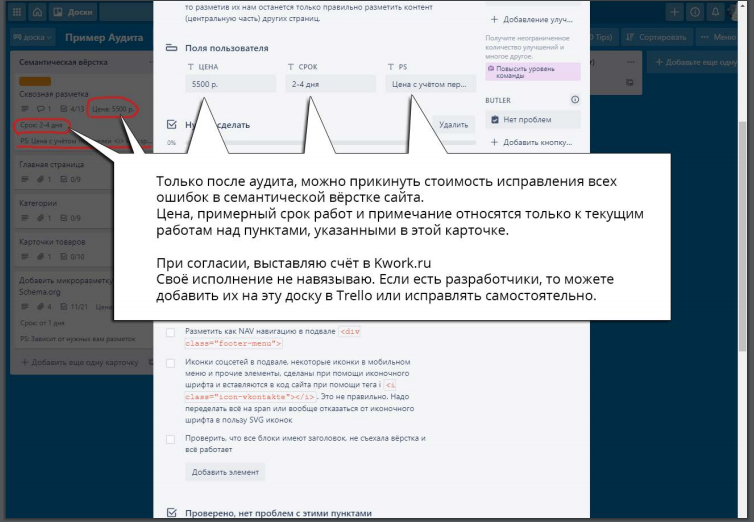
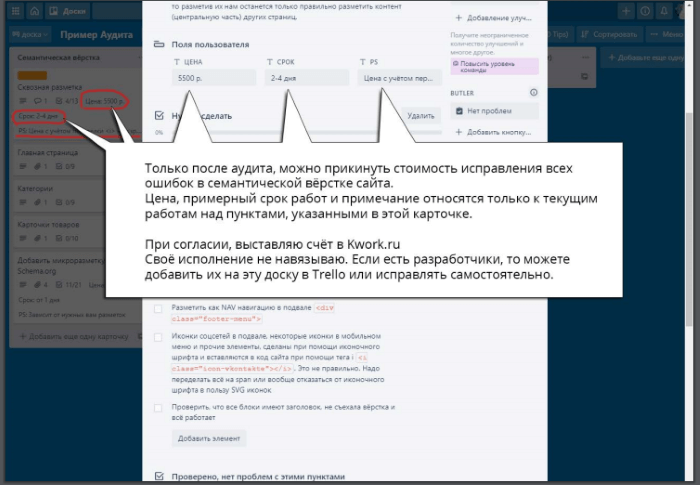
Изменила размеры, сжала картинку, исправила код

diff --git a/new-audit--layout.html b/new-audit--layout.html
@@ -1869,7 +1869,7 @@
                             </p>
                         </div>
                         <div style="min-width: 45%;">
-                            <img src="image/schema.jpg" style="max-width: 100%;height: auto;" width="662" height="500"
+                            <img src="image/schema.jpg" style="max-width: 100%;height: auto;" width="570" height="344"
                                 class="wslazy" data-srcset="image/schema.jpg 100w"
                                 srcset="https://wseo.kz/images/empty-300x200.svg 100w" sizes="100vw" decoding="async"
                                 loading="lazy" alt="Схема структуры страницы">
@@ -2067,7 +2067,7 @@
                         </div>
                         <div style="min-width: 45%;">
                             <img src="image/kak-vypolnyaetsya-audit.png" style="max-width: 100%;height: auto;"
-                                width="662" height="500" class="wslazy"
+                                width="700" height="242" class="wslazy"
                                 data-srcset="image/kak-vypolnyaetsya-audit.png 100w"
                                 srcset="https://wseo.kz/images/empty-300x200.svg 100w" sizes="100vw" decoding="async"
                                 loading="lazy" alt="Веб-специалист выполняющий аудит">
@@ -2096,8 +2096,8 @@
                             одежды – по 4 товара в ряд.
                         </p>
                         <div class="ta-center" style="min-width: 45%;">
-                            <img src="image/shablonnaya-stranica.jpg" style="max-width: 100%;height: auto;" width="662"
-                                height="500" class="wslazy" data-srcset="image/shablonnaya-stranica.jpg 100w"
+                            <img src="image/shablonnaya-stranica.jpg" style="max-width: 100%;height: auto;" width="700"
+                                height="543" class="wslazy" data-srcset="image/shablonnaya-stranica.jpg 100w"
                                 srcset="https://wseo.kz/images/empty-300x200.svg 100w" sizes="100vw" decoding="async"
                                 loading="lazy" alt="Шаблонная страница">
                         </div>
@@ -2119,7 +2119,7 @@
                         </div>
                         <div style="min-width: 45%;">
                             <img src="image/shablon-zimnej-odezhdy.png" style="max-width: 100%;height: auto;"
-                                width="662" height="500" class="wslazy"
+                                width="700" height="329" class="wslazy"
                                 data-srcset="image/shablon-zimnej-odezhdy.png 100w"
                                 srcset="https://wseo.kz/images/empty-300x200.svg 100w" sizes="100vw" decoding="async"
                                 loading="lazy" alt="Шаблонная страница зимней одежды">
@@ -2183,13 +2183,13 @@
 
                     <div class="flex jc-space-between nowrap-desctop pt25 pb30">
 
-                        <div style="min-width: 45%; padding-right: 5vw">
-                            <img src="image/prilozheniya-trello.png" style="max-width: 100%;height: auto;" width="662"
-                                height="500" class="wslazy" data-srcset="image/prilozheniya-trello.png 100w"
+                        <div class="ta-center" style="min-width: 45%;">
+                            <img src="image/prilozheniya-trello.png" style="max-width: 100%;height: auto; " width="700"
+                                height="419" class="wslazy" data-srcset="image/prilozheniya-trello.png 100w"
                                 srcset="https://wseo.kz/images/empty-300x200.svg 100w" sizes="100vw" decoding="async"
                                 loading="lazy" alt="Главная страница Trello">
                         </div>
-                        <div style="font-size: 1rem;">
+                        <div style="font-size: 1rem; padding: 2vw;">
                             <p>
                                 Я формирую результаты аудита семантической верстки html5 в отчет в приложении Trello.
                                 Его очень легко и удобно использовать даже новичкам. Документ состоит из карточек с
@@ -2208,14 +2208,14 @@
                     <div class="flex jc-space-between nowrap-desctop pt25 pb30 ta-center">
 
                         <div style="min-width: 45%; padding: 1.2vw">
-                            <img src="image/zametka-v-trello.png" style="max-width: 100%;height: auto;" width="662"
-                                height="500" class="wslazy" data-srcset="image/zametka-v-trello.png 100w"
+                            <img src="image/zametka-v-trello.png" style="max-width: 100%;height: auto;" width="700"
+                                height="486" class="wslazy" data-srcset="image/zametka-v-trello.png 100w"
                                 srcset="https://wseo.kz/images/empty-300x200.svg 100w" sizes="100vw" decoding="async"
                                 loading="lazy" alt="Лист задании в Trello">
                         </div>
                         <div style="min-width: 45%; padding: 1.2vw">
                             <img src="image/schityvaem-cenu-cherez-trello.png" style="max-width: 100%;height: auto;"
-                                width="662" height="500" class="wslazy"
+                                width="700" height="485" class="wslazy"
                                 data-srcset="image/schityvaem-cenu-cherez-trello.png 100w"
                                 srcset="https://wseo.kz/images/empty-300x200.svg 100w" sizes="100vw" decoding="async"
                                 loading="lazy" alt="Лист считывание цену в Trello">
